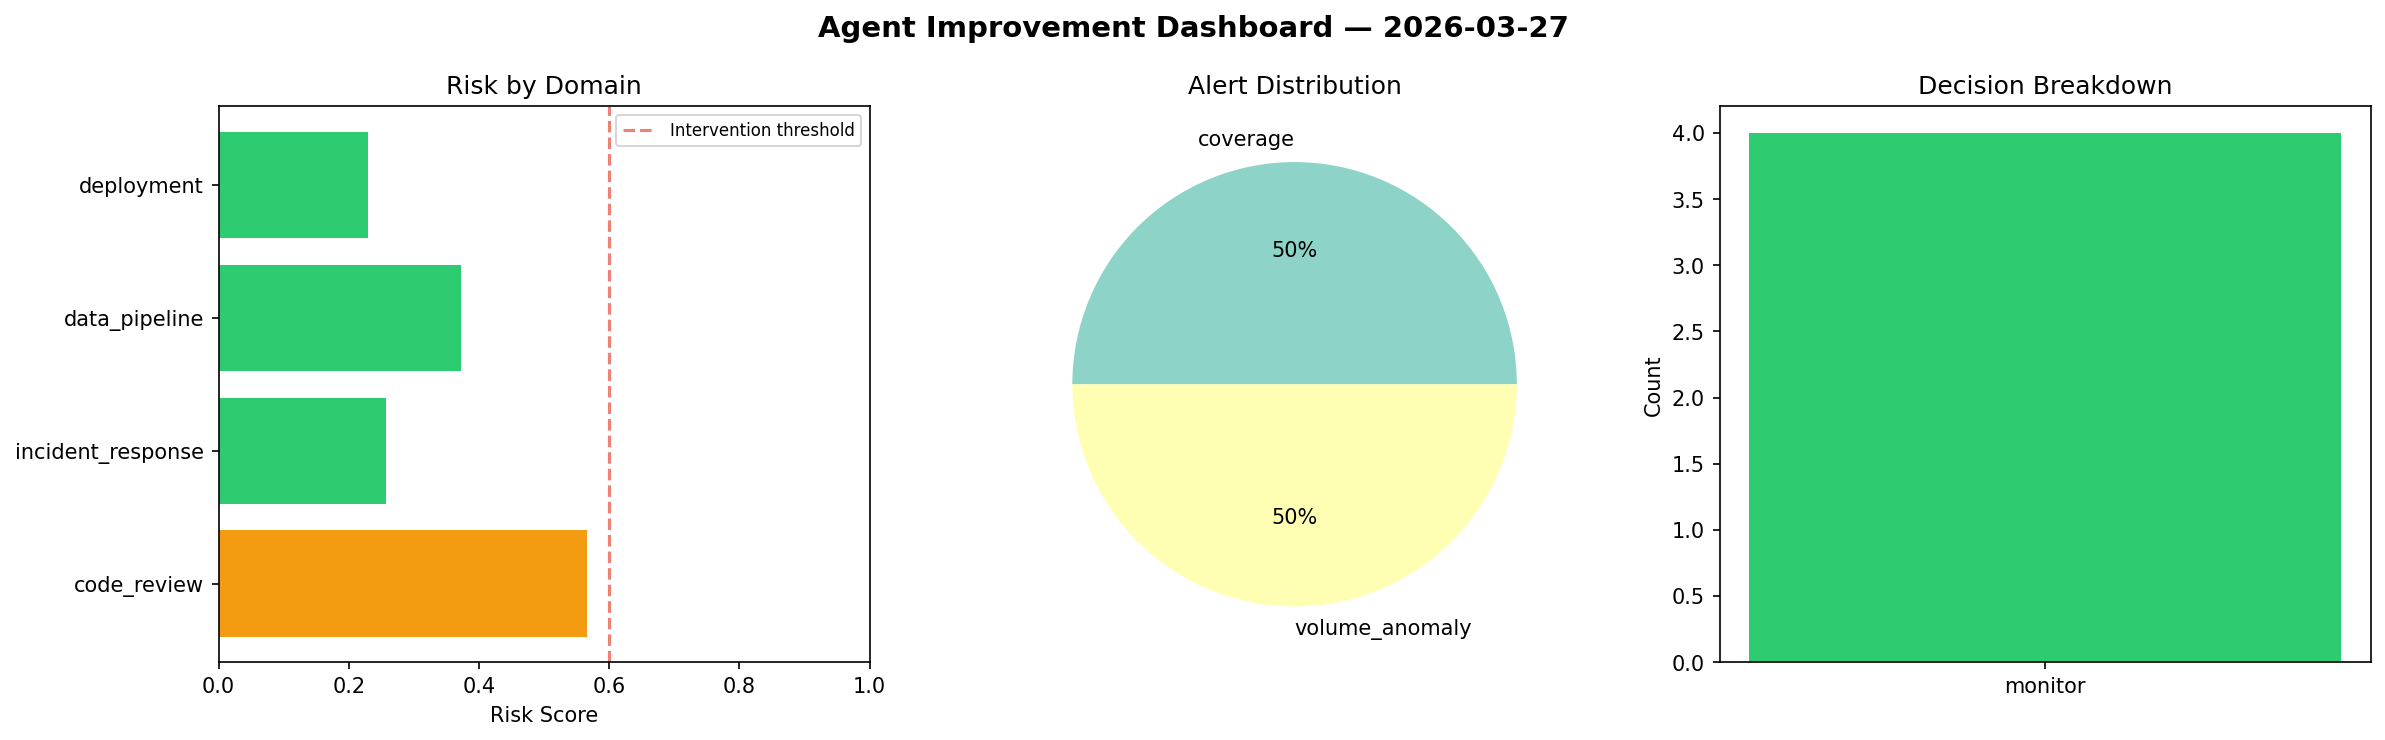
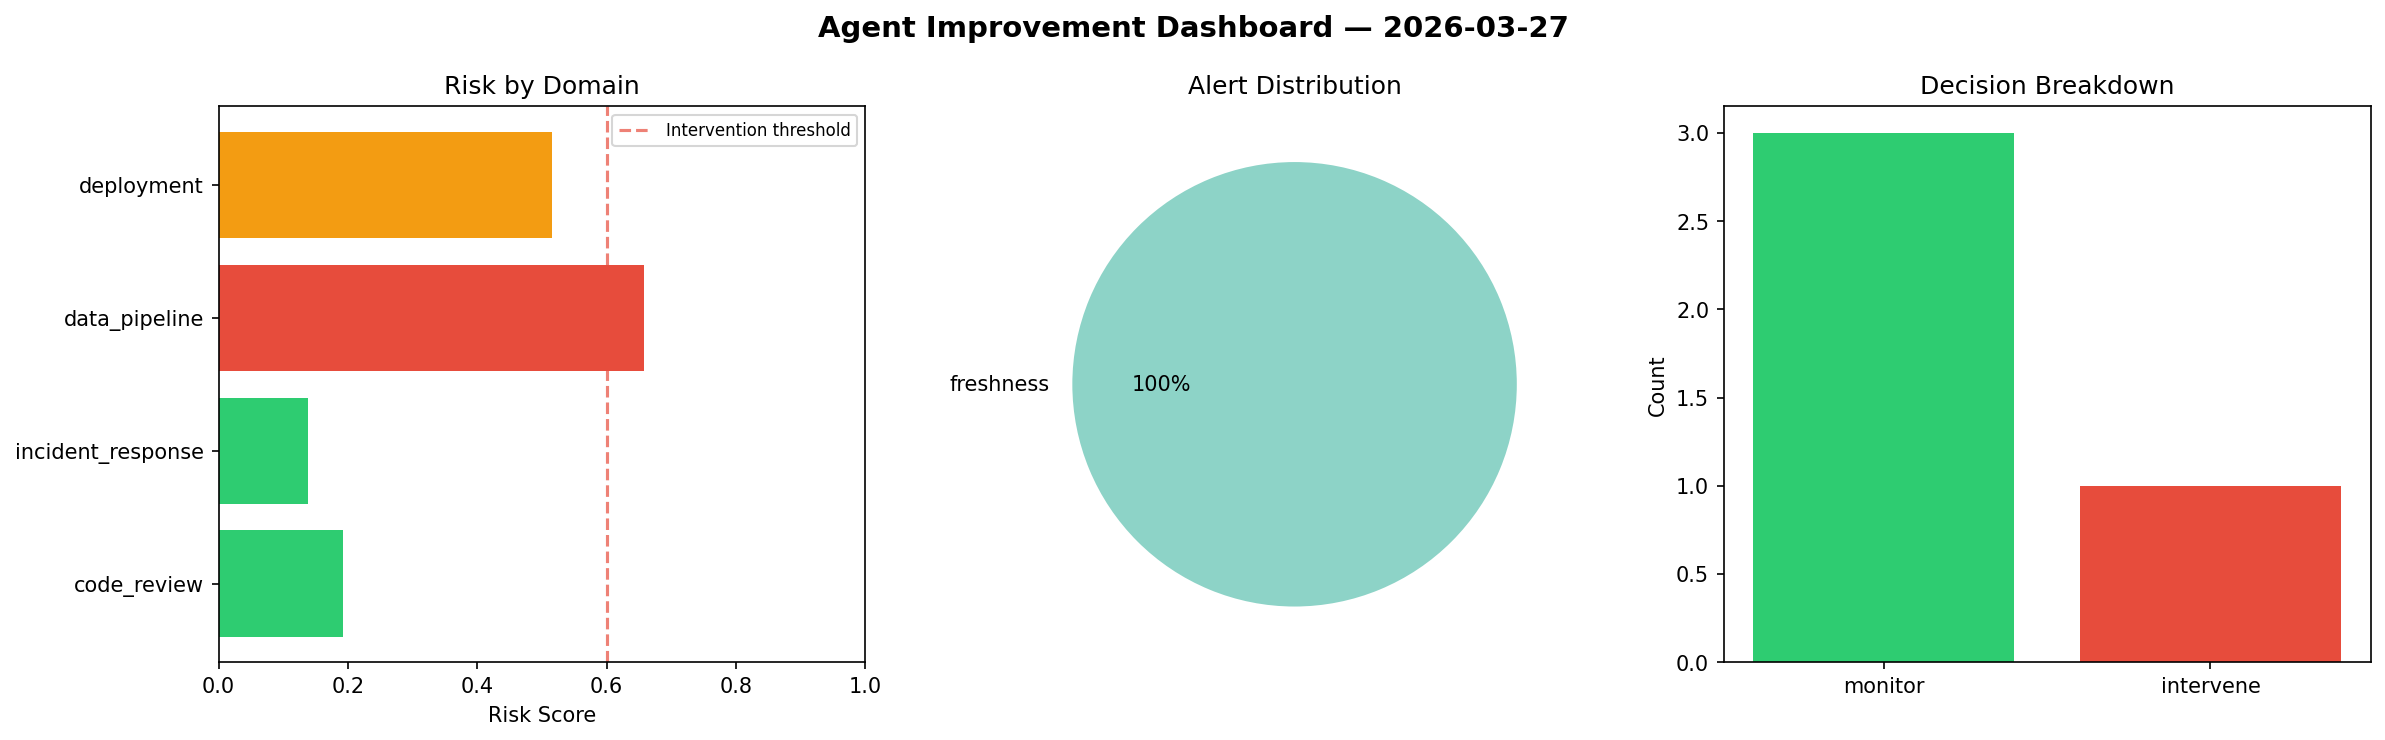
agent-improvement: daily cycle 2026-03-27T09:08

diff --git a/logs/2026-03-27.md b/logs/2026-03-27.md
@@ -1,6 +1,6 @@
 # Agent Improvement Report — 2026-03-27
 
-**Cycle ID:** `13bbf3c9` | **Avg Risk:** 0.3562 | **Interventions:** 0/4
+**Cycle ID:** `b2d73c93` | **Avg Risk:** 0.3761 | **Interventions:** 1/4
 
 ![Dashboard](2026-03-27_dashboard.png)
 
@@ -10,18 +10,18 @@
 
 | Domain | Risk Score | Decision | Alerts |
 |--------|-----------|----------|--------|
-| code_review | 0.5666 | monitor | coverage |
-| incident_response | 0.2571 | monitor | none |
-| data_pipeline | 0.3721 | monitor | volume_anomaly |
-| deployment | 0.2291 | monitor | none |
+| code_review | 0.1922 | monitor | none |
+| incident_response | 0.1389 | monitor | none |
+| data_pipeline | 0.6581 | intervene | freshness |
+| deployment | 0.5154 | monitor | none |
 
 ## Delta vs Yesterday
 
 | Domain | Today | Yesterday | Change |
 |--------|-------|-----------|--------|
-| code_review | 0.5666 | 0.6145 | 📉 -7.8% |
-| incident_response | 0.2571 | 0.4394 | 📉 -41.5% |
-| data_pipeline | 0.3721 | 0.5357 | 📉 -30.5% |
-| deployment | 0.2291 | 0.7789 | 📉 -70.6% |
+| code_review | 0.1922 | 0.6145 | 📉 -68.7% |
+| incident_response | 0.1389 | 0.4394 | 📉 -68.4% |
+| data_pipeline | 0.6581 | 0.5357 | 📈 22.8% |
+| deployment | 0.5154 | 0.7789 | 📉 -33.8% |
 
-**Refinement:** `{'adjustment': 'maintain', 'trend': 'improving', 'window': 4}`
+**Refinement:** `{'adjustment': 'tighten_thresholds', 'trend': 'degrading', 'window': 4}`
